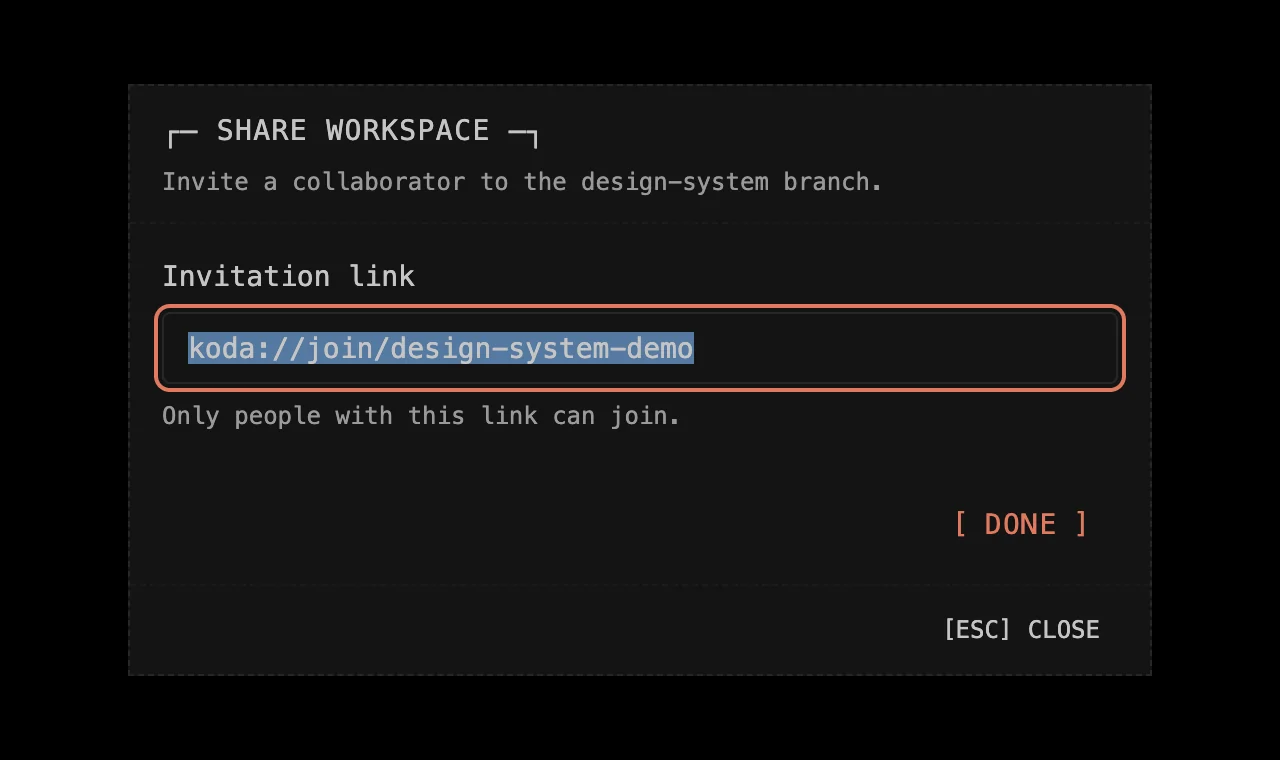
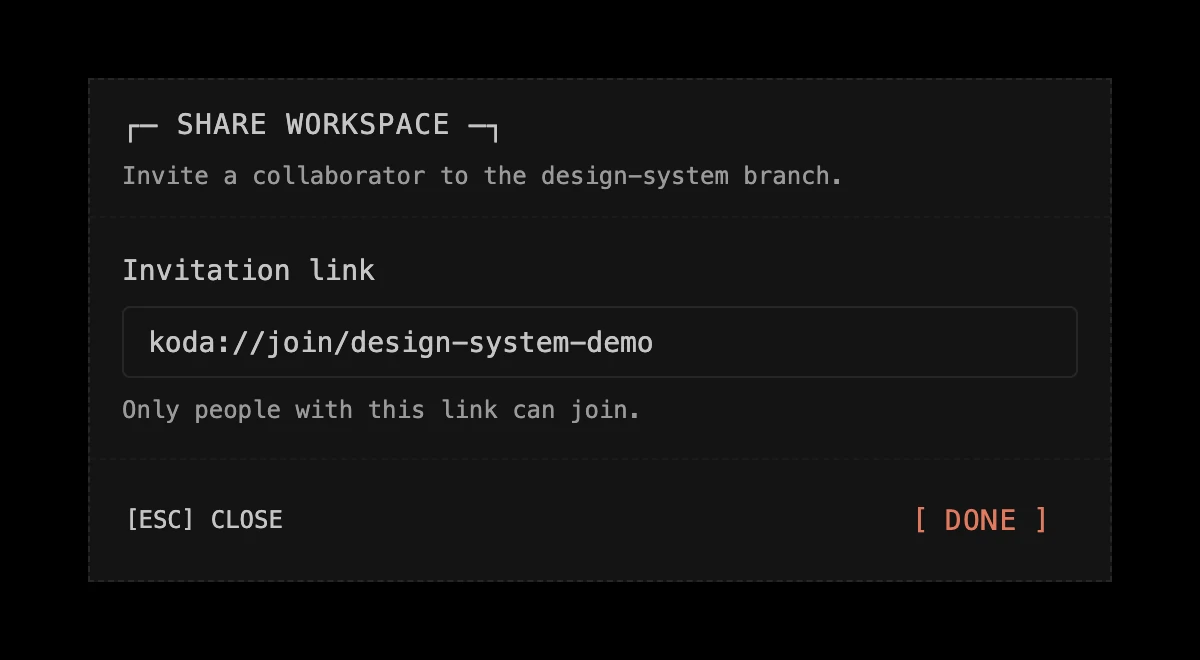
Design work: drop Hotpress comments; Koda dialog with [ESC] CLOSE beside DONE, link unselected

diff --git a/design-work.html b/design-work.html
@@ -105,10 +105,6 @@
           <div class="shot"><a href="./assets/design-work/hotpress-format-typography.webp" target="_blank" rel="noopener"><img src="./assets/design-work/hotpress-format-typography.webp" width="2880" height="1800" loading="lazy" alt="Hotpress Format Settings with the Typography section open: body font EB Garamond and heading font Playfair Display shown in their own typefaces, size and line height, and a preview of Chapter One, with Chapters, Page Layout and more sections below."></a></div>
           <figcaption>Font menus show each typeface in its own letterforms.</figcaption>
         </figure>
-        <figure class="plate">
-          <div class="shot"><a href="./assets/design-work/hotpress-thread.webp" target="_blank" rel="noopener"><img src="./assets/design-work/hotpress-thread.webp" width="1920" height="896" loading="lazy" alt="A commented phrase highlighted in yellow with a badge showing Ana's initial and two comments, and the Discussion popover open under it with Ana's comment, Swift Author's reply and a reply box."></a></div>
-          <figcaption>Comments open in place, under the phrase.</figcaption>
-        </figure>
         <p class="actions"><a class="button" href="./hotpress.html">The case study and the video</a>
           <a class="button" href="https://hotpress.app" target="_blank" rel="noopener">Open hotpress.app</a></p>
       </section>
@@ -130,7 +126,7 @@
           <figcaption>It has four themes, and any VS Code theme can be imported.</figcaption>
         </figure>
         <figure class="plate">
-          <div class="shot dark"><a href="./assets/design-work/koda-share-dialog.webp" target="_blank" rel="noopener"><img src="./assets/design-work/koda-share-dialog.webp" width="1280" height="760" loading="lazy" alt="Koda's Share Workspace dialog: a thin frame with the title between corner marks, an invitation link in a field ringed in orange, a [ DONE ] action and [ESC] CLOSE."></a></div>
+          <div class="shot dark"><a href="./assets/design-work/koda-share-dialog.webp" target="_blank" rel="noopener"><img src="./assets/design-work/koda-share-dialog.webp" width="1200" height="660" loading="lazy" alt="Koda's Share Workspace dialog: a thin frame with the title between corner marks, the invitation link in a field, and one footer row with [ESC] CLOSE on the left and [ DONE ] on the right."></a></div>
           <figcaption>Dialogs are terminal frames with actions in brackets.</figcaption>
         </figure>
         <p class="actions"><a class="button" href="./koda.html">The case study and the video</a>
